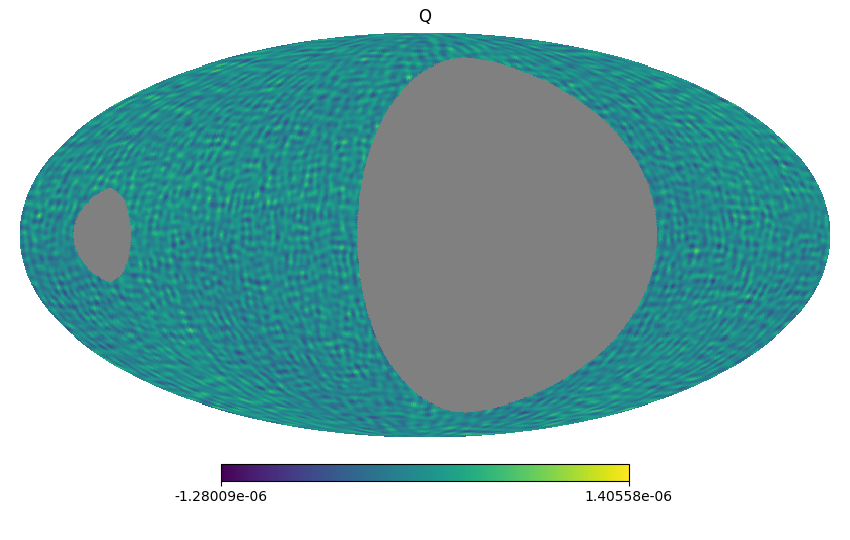
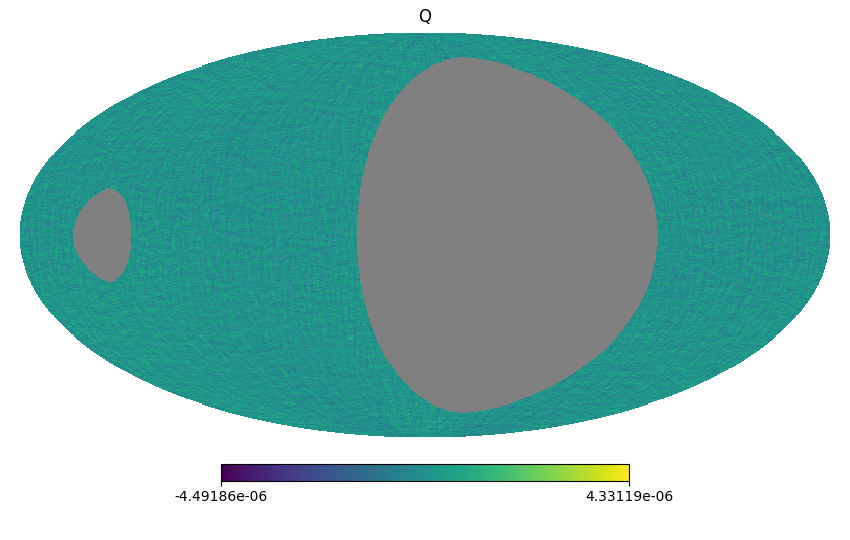
plots look better

Changed region(s): [[0.0, 0.0593, 0.9788, 0.8296], [0.7035, 0.8889, 0.7953, 0.9481], [0.2141, 0.8889, 0.2753, 0.9481]]

diff --git a/beamconv/pipeline.py b/beamconv/pipeline.py
@@ -53,8 +53,8 @@ first_det = 4
 # INPUT MAPS
 ########################################################
 
-nside = 128
-lmax = 2*nside
+nside = 256
+lmax = 2*nside+100
 
 #sky = pysm3.Sky(nside=nside, preset_strings=["c1"], output_unit="uK_CMB")
 #
@@ -78,11 +78,10 @@ clTT = cls['tt']
 clEE = cls['ee']
 clBB = cls['bb']
 clTE = cls['te']
-clEB = np.zeros(nside*2+1)
-clTB = np.zeros(nside*2+1)
+clEB = np.zeros(lmax+1)
+clTB = np.zeros(lmax+1)
 
-map_FG = hp.sphtfunc.synfast([clTT,clEE,clBB,clTE,clEB,clTB], nside, new='True')
-alm_FG = hp.sphtfunc.synalm([clTT,clEE,clBB,clTE,clEB,clTB], nside, new='True')
+map_FG, alm_FG = hp.sphtfunc.synfast([clTT,clEE,clBB,clTE,clEB,clTB], nside, alm='True', new='True')
 
 Imin = min(map_FG[0])#.value
 Imax = max(map_FG[0])#.value
@@ -315,7 +314,7 @@ ss.set_hwp_mod(mode='continuous', freq=88/60)
 ss.input_focal_plane(azs, els, polangs, deads, combine=True, scatter=False, **beam_opts)
 
 # Producing the coverage map
-ss.allocate_maps(nside=128)
+ss.allocate_maps(nside=nside)
 ss.scan_instrument_mpi(alm_FG, **scan_opts)
 maps, cond, proj = ss.solve_for_map(return_proj = True)
 
@@ -333,7 +332,7 @@ plt.close()
 
 #######################################
 
-npix = hp.nside2npix(128)
+npix = hp.nside2npix(nside)
 
 mask_raw = np.ones(npix)
 
@@ -414,19 +413,24 @@ ell_arr = ell[(ell <= lmax)] # it was going up to 3*nside!
 #plt.xlabel('$\\ell$', fontsize=16)
 #plt.ylabel('$C_\\ell$', fontsize=16)
 
+# pixel window function
+pixwin_T = hp.sphtfunc.pixwin(nside,pol=True)[0]
+pixwin_P = hp.sphtfunc.pixwin(nside,pol=True)[1]
+
 # beam coefficients
-beam_alm = hp.sphtfunc.gauss_beam(fwhm, lmax=lmax, pol=True)
+fwhm_rad = np.radians(fwhm/60)
+beam_alm = hp.sphtfunc.gauss_beam(fwhm_rad, lmax=lmax, pol=True)
 
 beam_T = beam_alm[:,0]
 beam_E = beam_alm[:,1]
 beam_B = beam_alm[:,2]
 
-clTT_beam = clTT*beam_T*beam_T
-clEE_beam = clEE*beam_E*beam_E
-clBB_beam = clBB*beam_B*beam_B
-clTE_beam = clTE*beam_T*beam_E
-clEB_beam = clEB*beam_E*beam_B
-clTB_beam = clTB*beam_T*beam_B
+clTT_beam = clTT*(beam_T*beam_T)
+clEE_beam = clEE*(beam_E*beam_E)
+clBB_beam = clBB*(beam_B*beam_B)
+clTE_beam = clTE*(beam_T*beam_E)
+#clEB_beam = clEB/(beam_E*beam_B)
+#clTB_beam = clTB/(beam_T*beam_B)
 
 fig, ((ax1, ax2), (ax3, ax4), (ax5, ax6)) = plt.subplots(3, 2, sharex='col', sharey='none')
 fig.suptitle(r'$[\ell(\ell+1)/2\pi]C_\ell$')
@@ -434,35 +438,42 @@ fig.subplots_adjust(hspace=.5)
 fig.subplots_adjust(wspace=.5)
 #fig.xscale('log')
 #fig.yscale('linear')
+
+ax1.axvline(x=2*nside,color='silver')
 ax1.plot(ll,clTT*ll*(ll+1)/2./pi,color='gray')
-#ax1.plot(ll,clTT_beam*ll*(ll+1)/2./pi,color='chocolate')
 ax1.plot(ell_arr, ell_arr * (ell_arr + 1) * cl_input_00[0][(ell <= lmax)]/2./pi, 'k-')
-ax1.plot(ell_arr, ell_arr * (ell_arr + 1) * cl_00[0][(ell <= lmax)]/2./pi, 'r--')
+ax1.plot(ll,clTT_beam*ll*(ll+1)/2./pi,color='goldenrod')
+ax1.plot(ell_arr, ell_arr * (ell_arr + 1) * cl_00[0][(ell <= lmax)]/2./pi, color='darkred')
 ax1.set_title('TT')
+ax2.axvline(x=2*nside,color='silver')
 ax2.plot(ll,clTE*ll*(ll+1)/2./pi,color='gray')
-#ax2.plot(ll,clTE_beam*ll*(ll+1)/2./pi,color='chocolate')
 ax2.plot(ell_arr, ell_arr * (ell_arr + 1) * cl_input_02[0][(ell <= lmax)]/2./pi, 'k-')
-ax2.plot(ell_arr, ell_arr * (ell_arr + 1) * cl_02[0][(ell <= lmax)]/2./pi, 'r--')
+ax2.plot(ll,clTE_beam*ll*(ll+1)/2./pi,color='goldenrod')
+ax2.plot(ell_arr, ell_arr * (ell_arr + 1) * cl_02[0][(ell <= lmax)]/2./pi, color='darkred')
 ax2.set_title('TE')
+ax3.axvline(x=2*nside,color='silver')
 ax3.plot(ll,clEE*ll*(ll+1)/2./pi,color='gray')
-#ax3.plot(ll,clEE_beam*ll*(ll+1)/2./pi,color='chocolate')
 ax3.plot(ell_arr, ell_arr * (ell_arr + 1) * cl_input_22[0][(ell <= lmax)]/2./pi, 'k-')
-ax3.plot(ell_arr, ell_arr * (ell_arr + 1) * cl_22[0][(ell <= lmax)]/2./pi, 'r--')
+ax3.plot(ll,clEE_beam*ll*(ll+1)/2./pi,color='goldenrod')
+ax3.plot(ell_arr, ell_arr * (ell_arr + 1) * cl_22[0][(ell <= lmax)]/2./pi, color='darkred')
 ax3.set_title('EE')
+ax4.axvline(x=2*nside,color='silver')
 ax4.plot(ll,clEB*ll*(ll+1)/2./pi,color='gray')
-#ax4.plot(ll,clEB_beam*ll*(ll+1)/2./pi,color='chocolate')
 ax4.plot(ell_arr, ell_arr * (ell_arr + 1) * cl_input_22[1][(ell <= lmax)]/2./pi, 'k-')
-ax4.plot(ell_arr, ell_arr * (ell_arr + 1) * cl_22[1][(ell <= lmax)]/2./pi, 'r--')
+#ax4.plot(ll,clEB_beam*ll*(ll+1)/2./pi,color='goldenrod')
+ax4.plot(ell_arr, ell_arr * (ell_arr + 1) * cl_22[1][(ell <= lmax)]/2./pi, color='darkred')
 ax4.set_title('EB')
+ax5.axvline(x=2*nside,color='silver')
 ax5.plot(ll,clBB*ll*(ll+1)/2./pi,color='gray')
-#ax5.plot(ll,clBB_beam*ll*(ll+1)/2./pi,color='chocolate')
 ax5.plot(ell_arr, ell_arr * (ell_arr + 1) * cl_input_22[3][(ell <= lmax)]/2./pi, 'k-')
-ax5.plot(ell_arr, ell_arr * (ell_arr + 1) * cl_22[3][(ell <= lmax)]/2./pi, 'r--')
+ax5.plot(ll,clBB_beam*ll*(ll+1)/2./pi,color='goldenrod')
+ax5.plot(ell_arr, ell_arr * (ell_arr + 1) * cl_22[3][(ell <= lmax)]/2./pi, color='darkred')
 ax5.set_title('BB')
+ax6.axvline(x=2*nside,color='silver')
 ax6.plot(ll,clTB*ll*(ll+1)/2./pi,color='gray')
-#ax6.plot(ll,clTB_beam*ll*(ll+1)/2./pi,color='chocolate')
 ax6.plot(ell_arr, ell_arr * (ell_arr + 1) * cl_input_02[1][(ell <= lmax)]/2./pi, 'k-')
-ax6.plot(ell_arr, ell_arr * (ell_arr + 1) * cl_02[1][(ell <= lmax)]/2./pi, 'r--')
+#ax6.plot(ll,clTB_beam*ll*(ll+1)/2./pi,color='goldenrod')
+ax6.plot(ell_arr, ell_arr * (ell_arr + 1) * cl_02[1][(ell <= lmax)]/2./pi, color='darkred')
 ax6.set_title('TB')
 
 #for ax in fig.get_axes():
@@ -670,8 +681,6 @@ for p in sing_pix:
     s[3*p:3*(p+1)] = hp.pixelfunc.UNSEEN
 
 print('map done: '+str(time.time()-start))
-
-npix = hp.nside2npix(128)
 
 I_signal = np.full(npix,hp.pixelfunc.UNSEEN)
 Q_signal = np.full(npix,hp.pixelfunc.UNSEEN)
